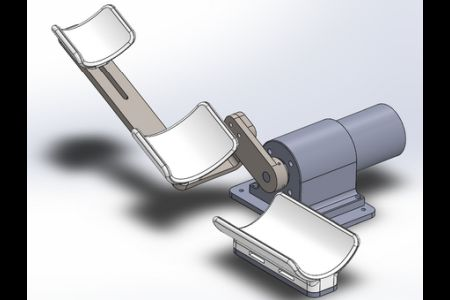
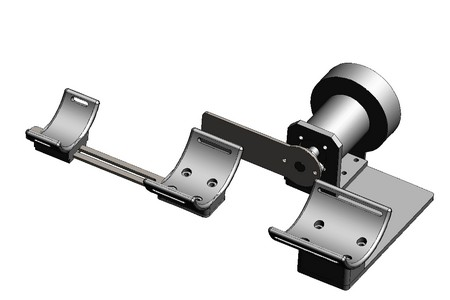
Updated mechanical design image

diff --git a/index.html b/index.html
@@ -65,7 +65,13 @@
 							</div>
 							<div class="media-body">
 								<h3 class="media-heading">Robotics &AMP; Automation</h3>
-								<p>Rehabilitation Robotics, Micro-robotics, Haptics &AMP; Teleoperation, Motion Control, PLC Programming.</p>
+							 	  <ul>
+									<li>Rehabilitation Robotics</li>
+									<li>Micro-robotics</li>
+									<li>Haptics &AMP; Teleoperation</li>
+									<li>Motion Control</li>
+									<li>PLC Programming.</li>
+								  </ul>  
 							</div>
 						</div>
 					</div>
@@ -77,7 +83,12 @@
 							</div>
 							<div class="media-body">
 								<h3 class="media-heading">Embedded Systems Development</h3>
-								<p>Internet of Things (IoT), Real-time operating systems (RTOS), ARM MCU & FPGA programming, PCB design &AMP; assembly</p>
+								  <ul>
+									<li>Real-time operating systems (RTOS)</li>
+									<li>ARM MCU & FPGA programming</li>
+									<li>PCB design &AMP; assembly</li>
+									<li>Internet of Things (IoT)</li>
+								  </ul>  
 							</div>
 						</div>
 					</div>
@@ -89,8 +100,11 @@
 							</div>
 							<div class="media-body">
 								<h3 class="media-heading">Software &AMP; Algorithm Development</h3>
-								<p>Computer Vision, Visual Servoing | Machine Learning: Tensorflow, Pytorch
-									<p>Programming Languages: C, C++, C# and Python</p>
+									<ul>
+										<li>Computer Vision</li>
+										<li>Machine Learning: Tensorflow, Pytorch</li>
+										<li>Programming Languages: C, C++, C# and Python</li>
+									</ul>  
 							</div>
 						</div>
 					</div>
@@ -165,7 +179,7 @@
 							<img src="images/portfolio-img1.jpg" class="img-responsive" alt="portfolio img">
 								<div class="portfolio-overlay">
 									<h4>PCB design</h4>
-									<h5>Altium, Eagle PCB and Proteus</h5>
+									<h5>Softwares: Altium, Eagle PCB and Proteus</h5>
 								</div>
 						</div>
 					</div>
@@ -173,8 +187,8 @@
 						<div class="portfolio-thumb">
 							<img src="images/portfolio-img2.jpg" class="img-responsive" alt="portfolio img">
 								<div class="portfolio-overlay">
-									<h4>Mechanical Design</h4>
-									<h5>Solidworks Software</h5>
+									<h4>Mechanical design & supervision for an elbow rehabilitation robot</h4>
+									<h5>Software: Solidworks</h5>
 								</div>
 						</div>
 					</div>
@@ -182,8 +196,8 @@
 						<div class="portfolio-thumb">
 							<img src="images/portfolio-img3.jpg" class="img-responsive" alt="portfolio img">
 								<div class="portfolio-overlay">
-									<h4>Mechanical Design</h4>
-									<h5>Solidworks Software</h5>
+									<h4>Mechanical design of a micromanipulation setup</h4>
+									<h5>Software: Solidworks</h5>
 								</div>
 						</div>
 					</div>
